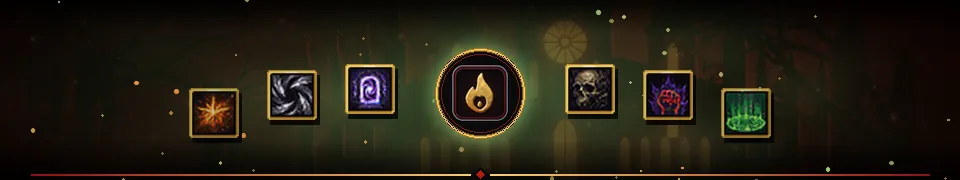
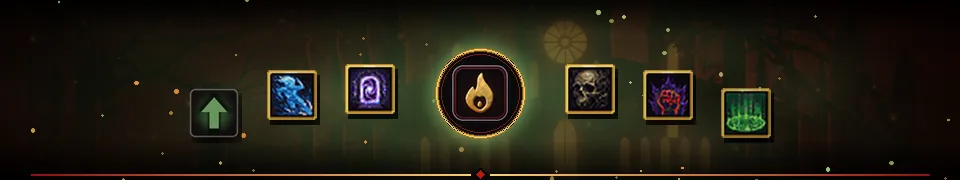
Retire the stock Hawkeye, add Tautstring for the Ranger line
Beta report 2026-10-20: the Ranger's auto attack stopped while the helper's
Support tab kept the stock Sharpshooter (Hawkeye, "utito tempo san") up.
Its base script slows the caster 70% for 10 s (CONDITION_PARALYZE) next to
+50% distance skill; a slowed Ranger in chase mode keeps stepping, and each
non-kite step holds the distance swing (src-patch 0042 stepEndTime).

Owner decision: the spell goes, a Chaos buff takes its place.
- retire_cure_spells.py also comments out support/sharpshooter.lua (OTHERS),
  id 135 freed; its spell_names.csv row removed; test now in CI.
- Tautstring (id 135, "vyr sag", Ranger/Deadeye/Beastmaster, level 60,
  300 mana, 30 s): +25% distance skill for 12 s, no slow, no lock.
- Buff bar row (sub id 71072) and icon, spell icon cell 308, client spell
  data with ChaosRetiredSpells (stock entry out of the spell list), helper
  Support entry 135 -> Tautstring, wiki data and art regenerated.
- tests/tautstring_test.lua; spell_ids_test, spellfix_test updated.
- Docs: server/README.md "Hawkeye retired, Tautstring" (also lists
  Protector and Swift Foot, which pacify 10 s), spells README balance.

Claude-Session: https://claude.ai/code/session_01MSp5LCfR63GEHJQb2KD2t4

Changed region(s): [[0.1875, 0.4722, 0.25, 0.7778], [0.2812, 0.4167, 0.3438, 0.6389]]

diff --git a/server/tools/retire_cure_spells.py b/server/tools/retire_cure_spells.py
@@ -1,5 +1,6 @@
 #!/usr/bin/env python3
-"""Take the status-cleansing spells out of the base spells.xml (idempotent). install_all.py step `spells`, first.
+"""Take the status-cleansing spells (and Hawkeye) out of the base spells.xml (idempotent). install_all.py step `spells`,
+first.
 
 usage: python3 -I retire_cure_spells.py DATA_DIR [--dry-run]       (python3 -I retire_cure_spells.py --list prints the table)
 
@@ -10,6 +11,13 @@ register_spells.py ignores comments, so it may use them; the ids are listed in s
 Lightward (Ranger line, data/spells/chaos/paladin/divine_ward.lua, a cleanse plus eight seconds of regeneration) is not a
 cure spell and stays; it also takes the raid's Withering Hex off. Cure runes (Purge Rune) are runes, not spells.
 Needs to run before register_spells.py (ids) and patch_spell_ids.py (it no longer moves Wash Taint / Break Glamour).
+
+Owner decision (2026-10-20, beta report "the auto attack stops"): the stock Sharpshooter (Chaos name Hawkeye, stock words
+"utito tempo san", Chaos words "vyr ira sol") goes too (OTHERS, marker "Chaos: spell retired"). Its script put a 70%
+slow (CONDITION_PARALYZE, -0.7 x speed + 56) on the caster for 10 s next to the +50% distance skill; the most likely
+way it stopped the bow: a slowed Ranger in Chase Opponent mode keeps stepping after its target and every chase step holds
+a distance swing (engine 0042, stepEndTime), while the helper kept the buff up. Its id 135 belongs to the Chaos replacement
+Tautstring (data/spells/chaos/paladin/tautstring.lua, no slow, no lock).
 """
 import os
 import re
@@ -26,7 +34,12 @@ CURES = {
     'healing/cure_curse.lua': (147, 'Lift Hex'),
     'healing/cure_bewitched.lua': (164, 'Break Glamour'),
 }
-FREED_IDS = sorted(i for i, _ in CURES.values())
+# other stock spells the owner retired: script -> (stock spell id, Chaos name)
+OTHERS = {
+    'support/sharpshooter.lua': (135, 'Hawkeye'),
+}
+OTHER_MARK = 'Chaos: spell retired (retire_cure_spells.py): '
+FREED_IDS = sorted(i for i, _ in list(CURES.values()) + list(OTHERS.values()))
 TAG = re.compile(r'<instant\b[^>]*?(?:/>|>.*?</instant>)', re.S)
 
 
@@ -42,9 +55,10 @@ def patch(text):
         if chaos_a != -1 and chaos_a <= m.start() < chaos_b:
             continue
         script = re.search(r'\bscript="([^"]*)"', m.group(0))
-        if script and script.group(1) in CURES:
+        if script and (script.group(1) in CURES or script.group(1) in OTHERS):
             out.append(text[pos:m.start()])
-            out.append('<!-- ' + MARK + m.group(0).replace('--', '- -') + ' -->')
+            mark = MARK if script.group(1) in CURES else OTHER_MARK
+            out.append('<!-- ' + mark + m.group(0).replace('--', '- -') + ' -->')
             pos = m.end()
             count += 1
     out.append(text[pos:])
@@ -53,7 +67,7 @@ def patch(text):
 
 def main(argv):
     if '--list' in argv:
-        for script, (sid, name) in sorted(CURES.items(), key=lambda kv: kv[1][0]):
+        for script, (sid, name) in sorted(list(CURES.items()) + list(OTHERS.items()), key=lambda kv: kv[1][0]):
             print('%3d  %-14s %s' % (sid, name, script))
         return 0
     args = [a for a in argv if not a.startswith('--')]
@@ -68,8 +82,8 @@ def main(argv):
     new, n = patch(text)
     if n and '--dry-run' not in argv:
         open(path, 'w', encoding='utf-8', errors='surrogateescape', newline='').write(new)
-    print('cure spells: %d retired%s' % (n, ' (dry run)' if '--dry-run' in argv else '') if n else
-          'cure spells: nothing to retire')
+    print('cure spells and Hawkeye: %d retired%s' % (n, ' (dry run)' if '--dry-run' in argv else '') if n else
+          'cure spells and Hawkeye: nothing to retire')
     return 0
 
 

diff --git a/server/tools/retire_cure_spells_test.py b/server/tools/retire_cure_spells_test.py
@@ -1,5 +1,5 @@
 #!/usr/bin/env python3
-"""Test of retire_cure_spells.py: the seven stock cure instants are commented out (found by script, any name), the Chaos
+"""Test of retire_cure_spells.py: the seven stock cure instants and Hawkeye (stock Sharpshooter) are commented out (found by script, any name), the Chaos
 block, Lightward and every other spell stay, a second run changes nothing, --dry-run writes nothing.
 Run: python3 -I server/tools/retire_cure_spells_test.py"""
 import os
@@ -28,18 +28,21 @@ def spell(name, script, sid):
 XML = '<spells>\n'
 for script, (sid, name) in R.CURES.items():
     XML += spell('Renamed ' + name, script, sid)
+XML += spell('Hawkeye', 'support/sharpshooter.lua', 135)
 XML += spell('Light', 'support/light.lua', 10)
 XML += '\t<instant group="healing" spellid="29" name="Short" words="y" script="healing/cure_poison.lua" />\n'
 XML += '\t<!-- BEGIN chaos spells (x) -->\n' + spell('Lightward', 'chaos/paladin/divine_ward.lua', 217)
 XML += spell('Chaos Cure', 'healing/cure_poison.lua', 250) + '\t<!-- END chaos spells -->\n</spells>\n'
 
 new, n = R.patch(XML)
-check(n == 8, 'seven cures plus the self-closing one: %d' % n)
-check(new.count(R.MARK) == 8, 'each in a marked comment')
+check(n == 9, 'seven cures, Hawkeye and the self-closing one: %d' % n)
+check(new.count(R.MARK) == 8, 'each cure in a marked comment')
+check(new.count(R.OTHER_MARK) == 1 and new.count('name="Hawkeye"') == 1
+      and '<!-- ' + R.OTHER_MARK + '<instant group="healing" spellid="135" name="Hawkeye"' in new, 'Hawkeye retired')
 check('<instant group="healing" spellid="10" name="Light"' in new, 'Light stays a tag')
 check('name="Lightward"' in new and '<!-- Chaos: cure' not in new[new.index('BEGIN chaos'):], 'the Chaos block is untouched')
 check(R.patch(new) == (new, 0), 'a second run changes nothing')
-check(sorted(R.FREED_IDS) == [29, 58, 144, 145, 146, 147, 164], 'the freed ids')
+check(sorted(R.FREED_IDS) == [29, 58, 135, 144, 145, 146, 147, 164], 'the freed ids')
 
 with tempfile.TemporaryDirectory() as tmp:
     p = os.path.join(tmp, 'spells')
@@ -49,7 +52,7 @@ with tempfile.TemporaryDirectory() as tmp:
     r = subprocess.run([sys.executable, '-I', tool, tmp, '--dry-run'], capture_output=True, text=True)
     check(r.returncode == 0 and open(os.path.join(p, 'spells.xml')).read() == XML, 'dry run writes nothing')
     r = subprocess.run([sys.executable, '-I', tool, tmp], capture_output=True, text=True)
-    check('8 retired' in r.stdout and open(os.path.join(p, 'spells.xml')).read() == new, 'run: ' + r.stdout)
+    check('9 retired' in r.stdout and open(os.path.join(p, 'spells.xml')).read() == new, 'run: ' + r.stdout)
     r = subprocess.run([sys.executable, '-I', tool, tmp], capture_output=True, text=True)
     check('nothing to retire' in r.stdout, 'second run: ' + r.stdout)
     check(subprocess.run([sys.executable, '-I', tool], capture_output=True).returncode == 1, 'no args: usage')

diff --git a/client/tools/gen_spell_data.py b/client/tools/gen_spell_data.py
@@ -15,6 +15,10 @@ GROUP = {'attack': 1, 'healing': 2, 'support': 3}
 # stale stock entries of the client that no server spell has: hidden from the spell list with the removed spells
 # (old words, client name). "Conjure Wand of Darkness" carries spell id 92, the server's Enchant Staff id; no rune shares it.
 CLIENT_ONLY_REMOVED = [('exevo gran mort', 'Conjure Wand of Darkness')]
+# stock spells the server retired (server/tools/retire_cure_spells.py OTHERS; old words, client name). Unlike the removed
+# ones they keep no id: spellfix.lua moves them off the server's ids like every stock entry the server does not know
+# (Tautstring has Hawkeye's id 135 now). The spell list leaves them out (chaosspells.lua hideRemovedSpells).
+RETIRED_STOCK = [('utito tempo san', 'Sharpshooter')]
 
 def main():
     xml = open('server/data/spells/chaos/spells_chaos.xml', encoding='utf-8').read()
@@ -73,6 +77,11 @@ def main():
             out.append('  ["%s"] = "%s", -- %s (%s)' % (r['words'], words, r['new_name'].replace('"', '\\"'), r['removed']))
     for old, name in CLIENT_ONLY_REMOVED:
         out.append('  ["%s"] = "%s", -- %s (client only, no server spell)' % (old, old, name))
+    out.append('}')
+    out += ['', '-- stock spells the server retired: old words, out of the spell list, off the server ids (gen_spell_data.py '
+            'RETIRED_STOCK)', 'ChaosRetiredSpells = {']
+    for old, name in RETIRED_STOCK:
+        out.append('  ["%s"] = true, -- %s' % (old, name))
     out.append('}')
     # stock utility spells the Thief, Monk and Templar lines get on the server (server/tools/add_vocations.py,
     # LINE_STOCK_SPELLS); chaosspells.lua adds the ids to the client's stock entries, keyed by the Chaos words

diff --git a/client/tools/gen_buff_icons.py b/client/tools/gen_buff_icons.py
@@ -752,6 +752,17 @@ def m_vigil_tithe(c):
     c.px(['h'], 11, 9, {'h': CH})
 
 
+# Tautstring (the Ranger line's distance buff, data/spells/chaos/paladin/tautstring.lua): a bow drawn to the full, the
+# arrow nocked on the string
+def m_tautstring(c):
+    c.arc(3, 3, 19, 23, 270, 90, B, 1.6)                                          # the bow's limbs
+    c.line([(11, 4), (6, 13), (11, 22)], BL, 0.6)                                  # the string, pulled back
+    c.line([(6, 13), (21, 13)], A, 1.0)                                            # the arrow
+    c.poly([(23, 13), (19, 10), (19, 16)], AH)                                     # its head
+    c.poly([(5, 10), (8, 13), (5, 16), (4, 13)], A)                                # the fletching
+    c.px(['W'], 21, 12, {'W': W})
+
+
 # time-friendly progression (server catchup.lua)
 def m_rested(c):
     c.ell(3, 4, 19, 20, A)                                                         # a crescent moon: rest
@@ -814,6 +825,7 @@ MOTIFS = {  # name: (function, ramps A, B, C)
     'vigil_wrath': (m_vigil_wrath, 'blood', 'wood', 'ember'), 'vigil_iron': (m_vigil_iron, 'steel', 'wood', 'gold'),
     'vigil_haste': (m_vigil_haste, 'nature', 'wood', 'wind'), 'vigil_clarity': (m_vigil_clarity, 'arcane', 'wood', 'water'),
     'vigil_tithe': (m_vigil_tithe, 'obsidian', 'wood', 'blood'),
+    'tautstring': (m_tautstring, 'nature', 'wood'),
 }
 
 # the class buffs that come from a Chaos spell show that spell's icon (key -> the spell's words)

diff --git a/server/tools/install_all.py b/server/tools/install_all.py
@@ -102,7 +102,8 @@ Steps, in this order (each one is idempotent on its own; a second run of the who
                tools/spawn_tuning.json: dead monster lines of monsters.xml, glitched spawntimes, the 300-600 band's
                respawn, entries on blocking tiles moved, spawns added in thin areas (README "Spawn density and
                respawn"; after monsters, which it reads)
-  spells       tools/retire_cure_spells.py       the stock cure (status cleansing) spells go; their ids are free (C6, 2026-10-20)
+  spells       tools/retire_cure_spells.py       the stock cure (status cleansing) spells and Hawkeye go; their ids are free (C6,
+                                                 2026-10-20)
                tools/register_spells.py          the Chaos spells (README "Install" 3)
                tools/patch_spell_ids.py          base spells with a spellid over 255 (or used twice) get their own id
                                                  below 256 (README "Spell ids below 256")

diff --git a/client/tools/gen_spell_icons.py b/client/tools/gen_spell_icons.py
@@ -407,7 +407,9 @@ ICONS = [  # (spell name, theme, glyph)
     # the late spells of the ascended classes (C6, 2026-10-20): cells 301..307, past the old 300-cell sheets (the sheets get a 16th row)
     ('Bastion Cry', 'steel', 'banner'), ('Anvil Fall', 'steel', 'hammer'), ('Twin Verdict', 'holy', 'twin'),
     ('Rampage Leap', 'blood', 'slam'), ('Glacial Doom', 'frost', 'swirl'), ('Pack Frenzy', 'nature', 'paw'),
-    ('Shuriken Tempest', 'steel', 'shuriken')]
+    ('Shuriken Tempest', 'steel', 'shuriken'),
+    # the Ranger line's fight buff in place of the stock Hawkeye (2026-10-20, cell 308)
+    ('Tautstring', 'nature', 'arrowup')]
 
 def render(theme, glyph):
     c = COL[theme]

diff --git a/server/README.md b/server/README.md
@@ -1496,6 +1496,56 @@ Inquisitor, Sentinel (next free ids need another retired or merged spell). Numbe
 (`rotation_model.csv` rows), not measured in game; scripts not run in a live engine. `tests/class_spell_progression_test.lua`
 pins the own-spell counts (max 15) and the new rows; `tests/spell_ids_test.lua` knows the retired ids.
 
+### Hawkeye retired, Tautstring (beta report 2026-10-20: the Ranger's auto attack stops)
+
+Report (owner, beta, live commit 53e35f94): "sometimes in a box or a small place the auto attack does not work", then "it
+stopped completely", then "it came back, then stopped again". A level ~25 Ranger, bow, Demon Skeletons and a Nightmare in a
+narrow corridor; the owner found that the bow stopped while the helper's Support tab kept the stock Sharpshooter up (Chaos
+name Hawkeye, stock words `utito tempo san`, Chaos words `vyr ira sol`, spell id 135) and fired again when it ran out.
+
+What the base script (`data/spells/scripts/support/sharpshooter.lua` of the base server) puts on the caster for 10 s (12-20 s
+with the base's upgrade storages 37036-37039): `CONDITION_ATTRIBUTES` with `SKILL_DISTANCEPERCENT` 150 (152-158),
+`DISABLE_DEFENSE` and `BUFF_SPELL`, and a `CONDITION_PARALYZE` of `-0.7 x speed + 56` (the upgraded variants call
+`setFormula` on the first condition by mistake, so theirs slow nothing). spells.xml adds the healing group as secondary
+group (10 s). No `CONDITION_PACIFIED` and no exhaust: nothing in it refuses an attack by itself. The likely way it stopped
+the bow (engine reading, not reproduced on a live server): the 70% slow. With Chase Opponent on, a slowed Ranger keeps
+stepping after a target it cannot reach in a corridor full of monsters (the monsters walk faster than it now), and every
+step that is not a kite walk step holds the distance swing until the step ends (src-patch 0042, `stepEndTime` in
+`Player::doAttacking`; 0028 frees only kite walk steps). The next step starts the moment the last one ends, so the swing
+waits again and again; when the buff ends the Ranger reaches its spot and the bow fires. Nothing in the server Lua aborts
+the attack: the 2026-10-20 keystones (Longshot, Barbed Quiver, Opening Shot, Hobbling Shot) only scale a hit in
+`onHealthChange` (`archetypes.lua`), and an error there would leave the hit as it was, not stop the swing.
+
+Owner decision: the spell goes and a Chaos one takes its place.
+* `tools/retire_cure_spells.py` (first action of the `spells` step) comments it out of `spells.xml` by script
+  (`support/sharpshooter.lua`, `OTHERS`, marker `Chaos: spell retired`), whatever name and words it has; its row left
+  `spell_names.csv`. The spell was `needlearn="0"`: nobody "learned" it, and the words no longer cast anything.
+* **Tautstring** (id 135, `vyr sag`, Ranger / Deadeye / Beastmaster, level 60, 300 mana, cooldown 30 s, support group 2 s;
+  `data/spells/chaos/paladin/tautstring.lua`): +25% distance skill for 12 s (`CONDITION_ATTRIBUTES`, sub id 71072, buff bar
+  row `tautstring`). No slow, no pacify, no defence loss, no other group cooldown. Numbers: `data/spells/README.md`
+  "Tautstring".
+* Client: `gen_spell_data.py` writes Tautstring and `ChaosRetiredSpells` (the stock entry `utito tempo san` leaves the
+  spell list; `spellfix.lua` moves it to 1135 like every stock spell the server lacks, and the helper's lists drop the
+  stock 135); the `vyr ira sol` fix entry is gone. The helper's Support / Auto setup entry for id 135 is Tautstring now
+  (`supportspells.lua`, timer, 12 s), so a Support row or an Auto setup that had Hawkeye has Tautstring. A Timer rule a
+  player typed by hand with `vyr ira sol` stays as written (the words are plain speech now). Icon cell 308, buff icon
+  `tautstring.png`.
+* Test: `tests/tautstring_test.lua` (the cast on a mocked player: one attribute condition, no paralyze / pacify / group
+  cooldown; the spell entry, the retirement, the client data), `tools/retire_cure_spells_test.py` (now in CI),
+  `spell_ids_test.lua`, `spellfix_test.lua`.
+
+The other stock self buffs (base scripts, not changed; owner to decide): Protector (Bulwark, `utamo tempo`, Warrior line)
+and Swift Foot (Windrunner, `utamo tempo san`, Ranger line) add `CONDITION_PACIFIED` for 10 s, which blocks every auto
+attack (`Player::doAttacking` returns at once) and puts the attack group on a 10 s cooldown; Blood Rage (Bloodlust,
+`utito tempo`, Warrior line) has `DISABLE_DEFENSE` only (no attack block); Charge (`utani tempo hur`) is a haste. The helper
+never offers Swift Foot (`NEVER_WORDS`, and Auto setup leaves it out of the hastes), but Auto setup times Protector
+(`supportspells.lua` `[132]`): a Warrior with it in the Timer section loses its attacks for 10 s of every cast.
+
+What to look for on the live server: nothing in the log (no Lua error comes with it). In game: while the buff bar shows
+"Spell Buff" and "Slowed" (Hawkeye), the Ranger walks in short slow steps and the bow is silent; turning Chase Opponent
+off (Stand) brings the shots back at once. After the update, `vyr ira sol` says the words as chat and `vyr sag` casts
+Tautstring.
+
 ## Necromancer summons and the summon cap (2026-10-18)
 
 Raise Bone Warrior / Archer / Mage (`data/spells/chaos/necromancer/raise_*.lua`, helper `NecroSpell.summon` in `_necro.lua`),
@@ -5133,9 +5183,9 @@ equipment) must have cooldowns that never conflict: using one never delays or bl
 - Engine, spells: the spell cooldown (per spell id) and the group cooldowns (`CONDITION_SPELLGROUPCOOLDOWN` per group)
   are separate per group. Every Chaos spell has its group (55 attack, 8 healing, 34 support in
   `spells/chaos/spells_chaos.xml`, none without a group, no secondary group), every stock rune its right group (28
-  attack, 3 healing, 5 support), the stock spells too. Kept on purpose: three stock support buffs whose trade-off is a
-  group lock (Protector and Swift Foot put a 10 s cooldown on the attack group from their scripts, Hawkeye has the
-  healing group as its secondary group, 10 s), and a spell without a group shares the "none" group cooldown with the
+  attack, 3 healing, 5 support), the stock spells too. Kept on purpose: two stock support buffs whose trade-off is a
+  group lock (Protector and Swift Foot put a 10 s cooldown on the attack group from their scripts; Hawkeye, which had the
+  healing group as its secondary group, was retired on 2026-10-20: "Hawkeye retired, Tautstring"), and a spell without a group shares the "none" group cooldown with the
   other group-less spells (only the house spells; monsters do not use them).
 - Lua, cast-time spells (`data/lib/chaos_casting.lua`): any other spell's cast event interrupted the cast and refunded
   it, so a heal cut the attack cast off, and the client helper held every heal while a cast charged.

diff --git a/client/MANIFEST.md b/client/MANIFEST.md
@@ -172,7 +172,7 @@ In the world a tiered monster's name is coloured by tier and its modifiers are d
 `game_chaosshaders/outfitshaderlist.lua` (`OutfitShaderList`, pure logic; `outfitshaderlist_test.lua`) is the logic of the Shader row that base patch `0045` adds to the base Outfit window (`game_outfit`, BASE.md 27; ROADMAP 86). The server's outfit window packet lists the shaders the character owns as {shaders.xml id, name}; `entries` keeps the valid ones (no repeats, at most 255) sorted by a display name: the store's names (`shop_config.lua`, by id), the exclusives' and the Chaos shaders' (`exclusives_config.lua`, `cosmetics_config.lua`), else the name made readable. `rows` gives "None" plus the owned ones (filtered by the search box), `outgoing` the name the set-outfit packet carries: an owned one or "" (the server refuses the whole outfit change for a shader the character does not own, so a worn shader that left the list is dropped), `text` the row's label. The test checks every label against those three server files and that every labelled name is registered by `chaosshaders.lua`. Tested in the Linux client against a live server with src-patch 0036: no shader owned, the row is greyed; four owned (Blood Pulse, Ember Glow, Heartblood, Void Flicker), the list shows them with previews, a pick previews and is worn after Ok (server `lookShader` 19), and both survive a relog.
 
 ## Chaos spells in the client (new)
-`game_chaosspells` adds the 107 Chaos spells to the spell list, action bar, hotkeys and cooldown display (`SpellInfo.Default`, `SpellIcons`, `SpelllistSettings.Default.spellOrder`). The data (`spelldata.lua`) is generated from `server/data/spells/chaos/spells_chaos.xml` by `tools/gen_spell_data.py` (CI fails if it is out of date). All three spell icon sheets (`overlay/data/images/game/spells/spell-icons-32x32.png`, `-22x24.png`, `-20x20.png`, 20 columns, 320 cells: 16 rows) are our own generated art and replace the base client's sheets when `tools/assemble_client.sh` copies the overlay: `tools/gen_all_spell_icons.py --spells-lua <client>/modules/gamelib/spells.lua --out-dir overlay/data/images/game/spells` draws every cell the client's `SpellIcons` table names from the spell's words (element from flam/frigo/vis/tera/mort/san/pox/kor/ico/..., kind from exori/exevo hur/lux/mas/exura/exana/utani/utamo/utevo/ad... runes, tier from infir/min, gran, max), the 77 Chaos spells at cells 201 to 277 (the Thief line's nine at 237-245, Berserker and Beastmaster at 246-249, the Necromancer line The snares (Snare Trap, Seeker Mine, Detonate Mines) and the four vigils of the second round of build archetypes (2026-10-12) are icon cells 282-288 (`client/tools/gen_spell_icons.py`, the sheets regenerated with `gen_all_spell_icons.py`; only those cells changed). The Necromancer's summon spells Raise Bone Warrior, Archer and Mage (2026-10-18) are cells 298-300; the 2026-10-20 level 340-460 spells (Bastion Cry, Anvil Fall, Twin Verdict, Rampage Leap, Glacial Doom, Pack Frenzy, Shuriken Tempest) are cells 301-307 (a 16th row; only those cells changed), the previous last three of the 300-cell sheets (drawn by `gen_spell_icons.py`, bone sword / bone arrows / necrotic eye; only those cells changed). The Thief line's area strikes Blade Flurry (73) and Iaido Sweep (74, 2026-10-15) are cells 289-290 (new kit glyphs
+`game_chaosspells` adds the 108 Chaos spells to the spell list, action bar, hotkeys and cooldown display (`SpellInfo.Default`, `SpellIcons`, `SpelllistSettings.Default.spellOrder`). The data (`spelldata.lua`) is generated from `server/data/spells/chaos/spells_chaos.xml` by `tools/gen_spell_data.py` (CI fails if it is out of date). All three spell icon sheets (`overlay/data/images/game/spells/spell-icons-32x32.png`, `-22x24.png`, `-20x20.png`, 20 columns, 320 cells: 16 rows) are our own generated art and replace the base client's sheets when `tools/assemble_client.sh` copies the overlay: `tools/gen_all_spell_icons.py --spells-lua <client>/modules/gamelib/spells.lua --out-dir overlay/data/images/game/spells` draws every cell the client's `SpellIcons` table names from the spell's words (element from flam/frigo/vis/tera/mort/san/pox/kor/ico/..., kind from exori/exevo hur/lux/mas/exura/exana/utani/utamo/utevo/ad... runes, tier from infir/min, gran, max), the 77 Chaos spells at cells 201 to 277 (the Thief line's nine at 237-245, Berserker and Beastmaster at 246-249, the Necromancer line The snares (Snare Trap, Seeker Mine, Detonate Mines) and the four vigils of the second round of build archetypes (2026-10-12) are icon cells 282-288 (`client/tools/gen_spell_icons.py`, the sheets regenerated with `gen_all_spell_icons.py`; only those cells changed). The Necromancer's summon spells Raise Bone Warrior, Archer and Mage (2026-10-18) are cells 298-300; the 2026-10-20 level 340-460 spells (Bastion Cry, Anvil Fall, Twin Verdict, Rampage Leap, Glacial Doom, Pack Frenzy, Shuriken Tempest) are cells 301-307 (a 16th row; only those cells changed), Tautstring (2026-10-20, the Ranger line's buff in place of the retired stock Hawkeye) cell 308 (only that cell changed; the stock entry `utito tempo san` leaves the spell list through `ChaosRetiredSpells` of `spelldata.lua`), the previous last three of the 300-cell sheets (drawn by `gen_spell_icons.py`, bone sword / bone arrows / necrotic eye; only those cells changed). The Thief line's area strikes Blade Flurry (73) and Iaido Sweep (74, 2026-10-15) are cells 289-290 (new kit glyphs
 The helper's own per-vocation lists get every castable spell of the client's table, not only the Chaos spells (owner 2026-10-17: "some spells appear in the spellbook but not in the helper"): `ChaosSpellFix.extendHelperLists` adds the Chaos spells, the base spells of `F.EXTRA` (never added before: their entries came after the helper pass) and any other instant the server has that the helper's lists lack (`castableFromInfo`; the helper's ignored ids and `F.HELPER_EXCLUDE` stay out).
 `flurry` and `sweep` in `gen_spell_icons.py`), the pack tools of the second pass cells 291-297 (Palm Shockwave, Shadow
 Ricochet, Iron Chain, Bone Shrapnel, Sanctified Ground, Shield Wave, Fan of Knives; glyphs `palmwave`, `ricochet`,

diff --git a/server/data/spells/README.md b/server/data/spells/README.md
@@ -77,6 +77,7 @@ All have `groupcooldown=2000`, `needlearn=0` (everyone of the vocation and level
 | 217 | Lightward | `tor sol ghar` | R, D, BM | 140 | 300 | 30s | Cleanses harmful conditions (incl. paralyze) and gives 8s of strong health/mana regeneration. |
 | 218 | Final Verdict | `kah gal sol judh` | D | 200 | 450 | 14s | Heavy holy strike (distance skill); +50% damage against targets under 25% health. |
 | 219 | Hail of Dawn | `drai gal vas sol volv` | R, D | 280 | 800 | 24s | **Cast time 1 s.** 3 volleys of 4 holy arrows, every arrow strikes the target (distance skill). |
+| 135 | Tautstring | `vyr sag` | R, D, BM | 60 | 300 | 30s | +25% distance skill for 12s; nothing else (no slow, no lock). In place of the stock Hawkeye, retired 2026-10-20 ("Tautstring" below). |
 | **knight** | | | | | | | |
 | 220 | Reaping Gyre | `kah spir` | W, J, B | 30 | 30 | 6s | Three spinning strikes (0/0.4/0.8s) against adjacent enemies; uses weapon attack and skill. |
 | 221 | Earthbreaker | `kah grund krak` | W, J, B | 60 | 50 | 10s | Shockwave (5x5) with physical damage; staggers enemies (60% slow, 3s). |
@@ -2246,6 +2247,29 @@ stronger, so the picker takes another set of 5. The "every spell" columns are th
   rest of the pack with 1.5-2.5x that: a deliberate pack-farming design (owner, 2026-10-20: stays), `blades_test.lua`
   asserts it. Fan of Knives and Blade Flurry are already uniform.
 - Sanctified Ground, Consecration and the other pulse spells: the pulses add up to one hit; no split between targets.
+
+### Tautstring (2026-10-20; owner decision after the beta report "the auto attack stops"; computed, not measured in game)
+
+The stock Sharpshooter (Hawkeye, `utito tempo san` / `vyr ira sol`, id 135, level 60, 450 mana) is retired
+(`tools/retire_cure_spells.py`, server/README.md "Hawkeye retired, Tautstring"): +50% distance skill for 10 s, cooldown 2 s,
+support group 10 s and the healing group 10 s, and a 70% slow on the caster for the whole time. Kept up by the helper it
+was +50% at all times, paid with no healing spells and the slow; the slow is the likely reason the bow stopped.
+
+Tautstring (id 135, `vyr sag`, level 60, 300 mana, cooldown 30 s, support group 2 s): +25% distance skill
+(`SKILL_DISTANCEPERCENT` 125) for 12 s. Measured against the other fight buffs:
+
+| Buff | Class | Level | Mana | Effect | Uptime | Mean gain | Price |
+|---|---|---|---|---|---|---|---|
+| Red Frenzy | W, J, B | 100 | 300 | +30% melee skill, 12 s / 40 s | 30% | +9% melee skill | -30% shielding while it runs |
+| Banner Call | all | 60 | 250 | +10% melee / distance / magic, 12 s / 35 s | 34% | +3.4% | - |
+| Tautstring | R, D, BM | 60 | 300 | +25% distance skill, 12 s / 30 s | 40% | +10% distance skill | - |
+| Hawkeye (retired) | R, D, BM | 60 | 450 | +50% distance skill, 10 s / 10 s | 100% | +50% | no healing spells, 70% slow |
+
+Distance weapon damage grows about linearly with the skill (the level term is level / 5), so +25% skill is about +20-24%
+weapon damage while it runs (Dawnpiercer and the other distance-skill spells gain the same share of their skill part),
+about +9% over a fight: the same as Red Frenzy's mean for the Warrior line and without its shielding price. 300 mana is
+a third of a level 60 Ranger's pool (about 900), 10 mana a second over its cooldown. The Banner Call stacks with it (own
+sub ids 71003 / 71072). Not measured in game; `server/tests/tautstring_test.lua` checks the cast on a mocked player.
 
 ## Honest notes / limitations
 

diff --git a/ROADMAP.md b/ROADMAP.md
@@ -257,6 +257,7 @@ Estimated before items 4 and 5: ~155 h to level 1000 for a sorcerer, ~285 h for 
 | O88 | Necromancer summon spells and the summon cap (owner 2026-10-18: "O Necromancer não tem magias de sumonar. Por favor, faça pelo menos 3: 1 warrior, 1 archer e 1 mage. O máximo de summons é 3 e quando o máximo é atingido, o próximo summon mata o primeiro.") | done (unit tests, mocked engine; not run in game) | Raise Bone Warrior (192, `vael oss brak`, level 8, 50 mana), Raise Bone Archer (193, `vael oss sag`, 12, 60) and Raise Bone Mage (176, `vael oss mynd`, 16, 70), support group, 4 s cooldown, Necromancer / Lich / Bone Lord; each raises ONE minion (Risen Warrior: melee, health x1.8; Risen Archer: range 5, physical, hit x1.25, health x0.6; Risen Mage: range 4, energy, hit x1.35, health x0.6; `necro_config.lua` `minions`, monsters `necro_risen_*.xml`, existing looks 298 / 33 / 99). Total cap of all kinds together per class (`minions.classes[].total`: Necromancer 3, Lich 1, Bone Lord 6, 7 from level 400): the next minion dismisses the OLDEST first (puff, no corpse, no loot), enforced in `necro_lib.lua` `M.raise` (so Raise Dead and Bone Golem follow it too) with the pure `N.makeRoom` in `necro_core.lua`; Raise Dead's per-kind caps stay but the total wins; the passive tree's Legion adds to the total. Spell ids: every id below 256 was taken; 176, 192 and 193 belonged to ammunition conjure spells that the `archery` step switches off, `register_spells.py` and `tests/spell_ids_test.lua` now count them as free. Client: spell data, three icon cells (298-300, the last of the 300-cell sheets), the helper's Support tab casts a summon only below the cap and one of each kind (`ChaosHelperSupport` `capped` / `minion`), pt-BR strings. Tests `necro_test.lua`, `necro_summon_test.lua`, `supportspells_test.lua`. Open: cast the three spells in game (look 33 for the archer is a plain skeleton; own art later), check that `Creature:getMasterId()` is set for own summons on 10.98 |
 | O89 | Junk loot out of the monsters (owner 2026-10-20: 58 sell-only items) | done (52 of 58; 27053, 29001, 6097, 6098, 6088, 6090 left in) | `server/tools/patch_junk_loot.py` (+ test) removes the loot lines of 52 ids from Chaos monster files; prices of held copies kept (`item_price_rules.csv`, `gen_item_prices.py` re-run, table unchanged); the six left in need a check on the real base; see server/README.md "Junk loot" |
 | O90 | Service NPCs in the Halls of Services (owner 2026-10-20): stash keeper, pocket boss NPC, banker, house broker, services clerk; the menu entries stay until the owner confirms in the game | done (unit and mocked-engine tests; not run live; the house purchase assumes the base `buyhouse.lua` rules) | `service_npcs*.lua`, `data/npc/scripts/chaos_service_npc.lua`, `tools/install_service_npcs.py`, `tests/service_npcs_test.lua`, server/README.md "Service NPCs" |
+| O91 | Beta report 2026-10-20: the Ranger's auto attack stops while the helper keeps the stock Hawkeye (Sharpshooter, `utito tempo san`) up; owner: retire it, a Chaos buff in its place | done (unit and mocked-engine tests; not run live) | `tools/retire_cure_spells.py` retires it (id 135 freed), Tautstring (`vyr sag`, +25% distance skill 12 s, no slow) takes id 135; client spell data, icon cell 308, buff icon, helper Support entry; Protector and Swift Foot still pacify 10 s (owner to decide); server/README.md "Hawkeye retired, Tautstring" |
 
 ## Open decisions and loose ends
 

diff --git a/docs/CLASSES.md b/docs/CLASSES.md
@@ -52,7 +52,9 @@ the line's area strike, 2026-10-15).
 bow or crossbow (engine src-patch 0023; bows stay two-handed, so no shield; gear with implicit and rolled modifiers that work only while a bow or crossbow is held: distance fighting, attack speed,
 critical strike, extra projectiles, elemental shares; server/README.md "Infinite arrows and quivers"). The new-player kit has
 the bow and no arrows. Only the Ranger, Deadeye and Beastmaster may wear quivers (the launchers' vocations). Every class
-may wear two rings: the ammunition slot is a second ring slot (server/README.md "Second ring slot").
+may wear two rings: the ammunition slot is a second ring slot (server/README.md "Second ring slot"). The line's fight buff is
+Tautstring (level 60, +25% distance skill for 12 s); the stock Sharpshooter / Hawkeye it replaced was retired on 2026-10-20
+because its slow kept the bow from firing (server/README.md "Hawkeye retired, Tautstring").
 - **Deadeye**: crossbow, Final Verdict, marks.
 - **Beastmaster**: a wolf/bear companion that scales with level, arrow splash, Ricochet.
   The companion (Wild Bond) and every other player summon is an ally of its owner and party: it never hits them, they never
